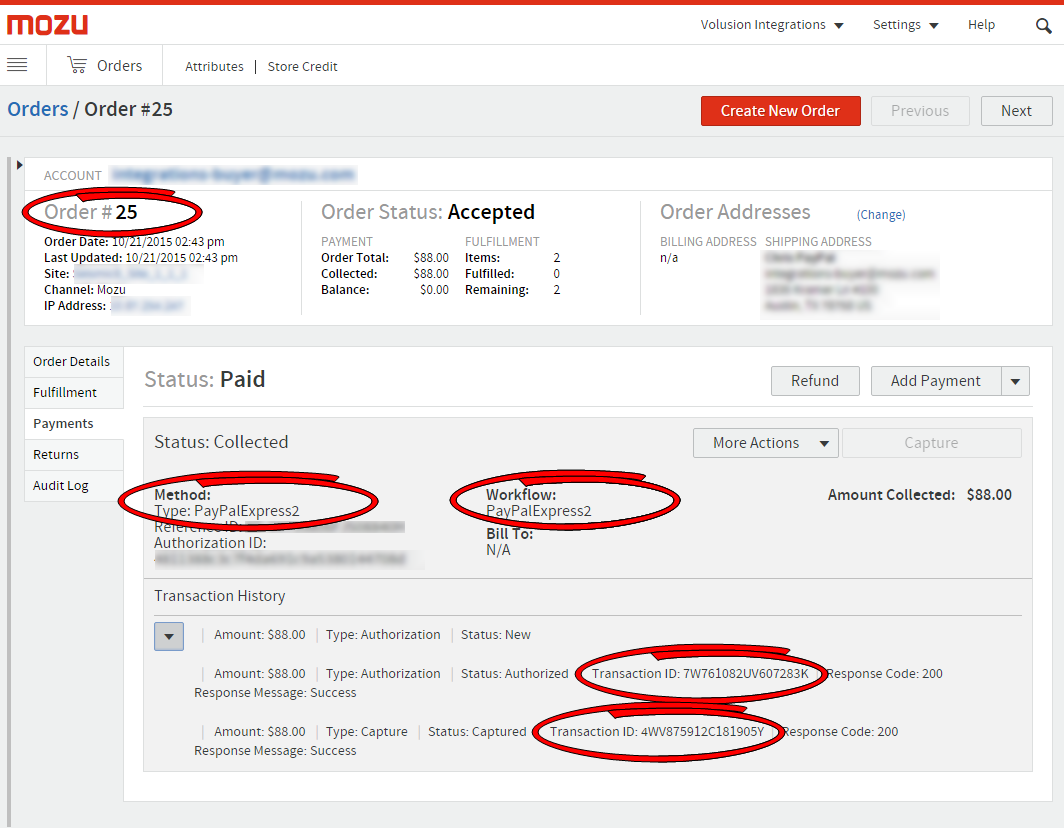
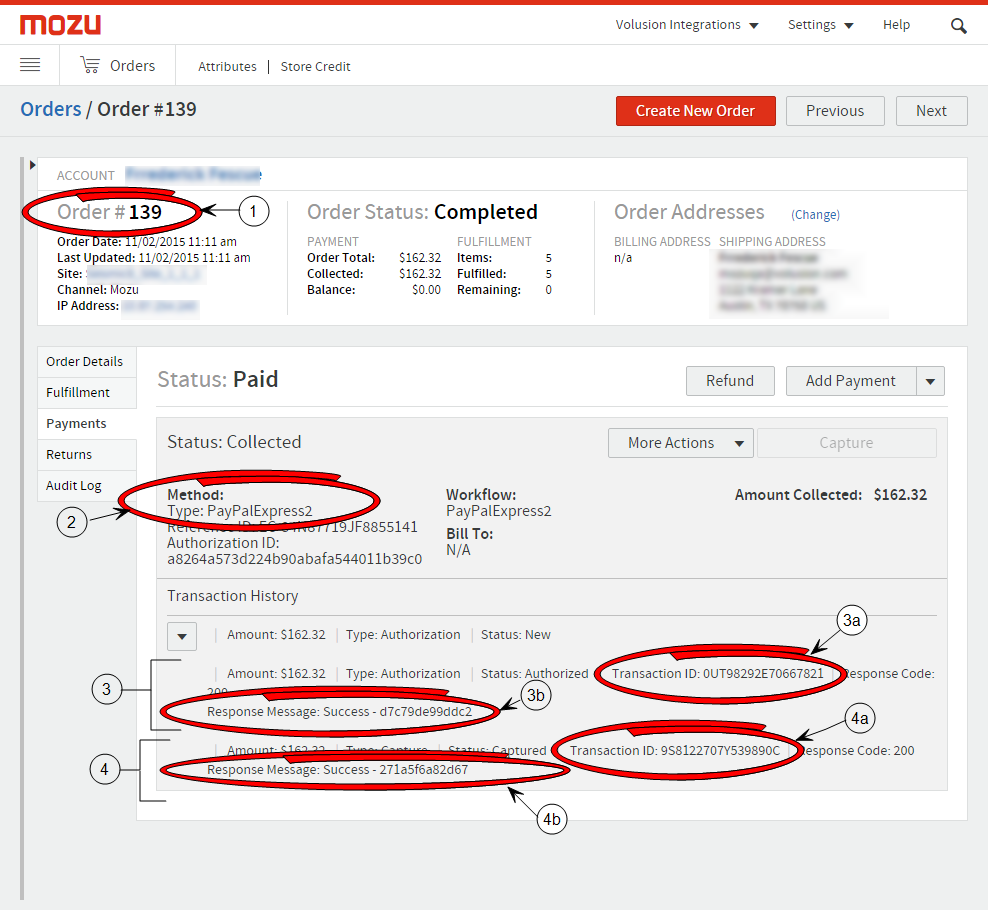
Doc Updates

diff --git a/Preview/PayPalExpress/Mozu-PayPalExpress-App.htm b/Preview/PayPalExpress/Mozu-PayPalExpress-App.htm
@@ -97,9 +97,11 @@
           <div class="side-heading">Table of Contents</div>
           <ul class="nav nav-stacked" >
             <li><a href="#intro">Welcome to PayPal Express and Mozu</a></li>
+            <li><a href="#overview">Setup Overview</a></li>
             <li><a href="#install">Install the App</a></li>
             <li><a href="#theme">Update Your Theme</a></li>             
             <li><a href="#configapp">Configure the App</a></li>
+            <li><a href="#enable">Enable the App</a>
             <li><a href="#useapp">Use the App</a>
               <ul class="nav nav-stacked">
                 <li><a href="#cart">Pay from Cart</a></li>
@@ -123,14 +125,22 @@
                             <ul>
                             	<li>Enables PayPal Express Checkout on both shopping cart and checkout pages. Customers with a PayPal account can check out directly from the cart.</li>
                             	<li>Securely connects Mozu to your existing PayPal merchant account through your PayPal Merchant ID and API Signature.</li>
-                            	<li>Retrieves customer shipping information directly from PayPal.</li>
-                            	<li>Exports shipping information to PayPal if the customer enters a new shipping address in Mozu.</li>
-                            	<li>Imports all necessary order information back into Mozu for payment capture and fulfillment.</li>
-                            	<li>Supports split payments. For example, a customer can apply Mozu store credit for part of an order and use PayPal for the remainder.</li>
+                            	<li>Communicates necessary order and shipping information between both systems.</li>
+                            	<li>Allows for separate authorization and capture. Authorize payments on customer order and capture later through Mozu.</li>
+                            	<li>Imports all necessary order information back into Mozu for payment capture, fulfillment, and order history.</li>
                             	<li>Can be enabled alongside any other payment providers or gateways, including Pay with Amazon and Visa Checkout.</li>
                             </ul>
 				</section>
-
+			<section id="overview">
+				<h2>Setup Overview</h2>
+				<p>The following steps are required before you can use PayPal Express Checkout on your site(s):</p>
+				<ol>
+					<li><a href="#install">Install</a> the PayPal Express Application on your tenant.</li>
+					<li><a href="#theme">Update</a> your Mozu theme.</li>
+					<li><a href="#configapp">Configure</a> PayPal Express on your <strong>Payment &amp; Settings</strong> page.</li>
+					<li><a href="#enable">Enable</a> the app.</li>
+				</ol>
+			</section>
 		<ul class="nav nav-tabs">
                 	<li class="active"><a data-toggle="tab" href="#config"><strong>Configuration Guide</strong></a></li>
                 	<li class="inactive"><a data-toggle="tab" href="#tech"><strong>Technical Specs &amp; Tests</strong></a></li>
@@ -144,9 +154,9 @@
 				<section id="install">
 					<h2>Install the PayPal Express Integration for Mozu on Your Tenant</h2>
 
-					<p>Mozu offers two options for acquiring the PayPal Express Application:</p>
+					<p>Mozu offers two options for adding PayPal Express Checkout functionality to your tenant:</p>
 					<ol>
-						<li>Install the PayPal Express Certified Mozu Application. A Mozu sales or professional services representative will install the application on your tenant.</li>
+						<li>(Preferred) Contact your Mozu sales or professional services representative to install the PayPal Express Certified Mozu Application on your tenant.</li>
 						<li>Build the application from the Mozu-provided code on <a href="https://github.com/Mozu/PayPal-Express" target="_blank">GitHub</a> and install it to Mozu Dev Center. This option requires that you have Arc.js enabled on your tenant. Contact your sales or professional services representative for more information about enabling Arc.js.</li>
 					</ol>
 				</section>
@@ -157,7 +167,11 @@
 						<p>Installing and configuring the PayPal Express app enables PayPal Express functionality in Mozu Admin. However, you still must enable PayPal functionality on your storefront so that customers can use it. To do this, merge the PayPal Express theme changes to enable the PayPal workflow:</p>
 
 						<ol>
-							<li>Navigate to the <a href="https://github.com/Mozu/PayPalExpress-Theme" target="_blank">PayPalExpress-Theme</a> repository on GitHub. This repo contains the full Mozu Core 8 theme with necessary additions and modifications for PayPal Express.</li>
+							<li>On GitHub, find the theme template that best fits your use-case:
+								<ul>
+									<li><strong>(Core 8)</strong> The <a href="https://github.com/Mozu/PayPalExpress-Theme" target="_blank">PayPalExpress-Theme</a> repository contains the full Mozu Core 8 theme with only the necessary additions and modifications for PayPal Express. <strong>(Core 7 or 6)</strong> Branches of this template are also available for Mozu <a href="https://github.com/Mozu/PayPalExpress-Theme/tree/core7" target="_blank">Core 7</a> and <a href="https://github.com/Mozu/PayPalExpress-Theme/tree/core6" target="_blank">Core 6</a>.</li>
+									<li><strong>(Core 8)</strong> The <a href="https://github.com/Mozu/Kitchensink-Theme" target="_blank">Kitchensink-Theme</a> repository contains the full Mozu Core 8 theme with the necessary additions for <em>all</em> supported third-party payments: PayPal Express, Pay with Amazon, and Visa Checkout.</li>
+								</ul>
 							<li>Review and apply the changes made in our sample implementation to your own theme.<span class="panel-tip"><strong>Tip:</strong> To see the differences between the sample implementation and your own theme, open the command line and run the <code>git diff</code> command, using the paths for the themes to be diffed.</span></li>
 						</ol>
 
@@ -201,12 +215,20 @@
 							<li>Click <strong>Save</strong> to save your PayPal Express settings.</li>
 						</ol>                        				
 				</section>
-
+				<section id="enable">
+					<h2>Enable the App</h2>
+					<p>After configuration, enable the PayPal Express Application in Mozu to apply its functionality to your tenant:</p>
+					<ol>
+						<li>On the Mozu Admin top bar, select <strong>Settings</strong> > <strong>Applications</strong>.</li>
+						<li>Select the PayPal Express Application.</li>
+						<li>Click <strong>Enable App</strong> on the app page.</li>
+					</ol>
+				</section>
 				<section id="useapp">
 					<h2>Use the App</h2>
 					<p>After you have installed the app and merged the theme changes, Checkout with PayPal buttons appear on the cart and checkout pages of your Mozu site.</p>
 					<h3 id="cart">Pay with Paypal from the Cart Page</h3>
-					<p>With PayPal Express enabled, your customers see a PayPal button from the Cart page of your site:</p>
+					<p>With PayPal Express enabled, your customers see a PayPal button from the Cart page of your site. Complete the following steps to test the user experience:</p>
 						<figure>
 						<img src="ppe-cart.png" class="img-mozu-center" alt="PayPal Express button on the Cart page">
 						<figcaption>Sample Cart page as it appears to a customer.</figcaption>
@@ -223,7 +245,7 @@
 						 </ol>
 						
 					<h3 id="checkout">Pay with PayPal from the Checkout Page</h3>
-					<p>A customer who chooses <strong>Proceed To Checkout</strong> from the Cart page can still check out with PayPal:</p>
+					<p>A customer who chooses <strong>Proceed To Checkout</strong> from the Cart page can still check out with PayPal. Complete the following steps to test the user experience:</p>
 					<ol>
 						<li>On the Checkout page, enter your <strong>Shipping Information</strong> and select your <strong>Shipping Method</strong>.</li>
 						<li>(Optional) Apply any coupons, gift cards, or store credits.</li>
@@ -243,19 +265,45 @@
 						<div class="panel-heading"><strong>Note:</strong> Regardless of when you capture payment, Mozu strongly recommends you always capture payment from Mozu. If you capture payment from your PayPal merchant account, you must then handle any refunds or returns from PayPal, which can throw off your Mozu order history.</div>
 					</div>
 					<p>The order appears in the <strong>Orders</strong> module in Mozu admin. Note the following details from the <strong>Payments</strong> tab:</p>
-					<ul>
-						<li>The Order number matches the <strong>Invoice ID</strong> in PayPal.</li>
-						<li>Payment <strong>Method</strong> and <strong>Workflow</strong> indicate that the order was processed through PayPal Express.</li>
-						<li>The <strong>Transaction History</strong> shows both PayPal <strong>Transaction ID</strong> values - one for the authorization and one for the capture.</li>
-					</ul>
 					<figure>
-						<img src="ppe-order.png" class="img-mozu-center" alt="Figure 1: Sample PayPal order as it appears in Mozu">
-						<figcaption>Figure 1: A sample PayPal Express order in Mozu.</figcaption>
+						<img src="ppe-order.png" class="img-mozu-center" style="max-width:90%" alt="Figure 1: Sample PayPal order as it appears in Mozu"><figcaption>Figure 1: A sample PayPal Express order in Mozu. 
+						</figcaption>
+						
+							<table class="table table-bordered" style="font-size:90%; max-width:80%; margin-left:auto;
+	margin-right:auto;">
+							<thead>
+								<th>Caption</th>
+								<th>Description</th>
+							</thead>
+							<tr>
+								<td><strong>1</strong></td>
+								<td>The Order Number in Mozu matches the Invoice ID in PayPal.</td>
+							</tr>
+							<tr>
+								<td><strong>2</strong></td>
+								<td>The payment Method indicates a payment type of PayPal Express.</td>
+							</tr>
+							<tr>
+								<td><strong>3</strong></td>
+								<td>The Transaction History entry for the payment authorization:
+									<ul>
+										<li><strong>3a</strong> - The Transaction ID for the authorization. Transaction IDs always match between Mozu and PayPal.</li>
+										<li><strong>3b</strong> - The Response Message for the authorization. This includes the PayPal CorrelationID for the transaction. If you need to contact PayPal Merchant Technical Aupport about a specific transaction, you can provide this ID to find the transaction.</li>
+									</ul></td>
+							</tr>
+							<tr>
+								<td><strong>4</strong></td>
+								<td>The Transaction History entry for the payment authorization.<ul>
+										<li><strong>4a</strong> - The Transaction ID for the payment capture.</li>
+										<li><strong>4b</strong> - The Response Message and PayPal CorrelationID for the payment capture transaction.</li>
+									</ul></td>
+							</tr>
+						</table>
 					</figure>
 
 					<figure>
 						<img src="ppe-paypal-order.png" class="img-mozu-center" alt="Figure 2: Same order as it appears in PayPal">
-						<figcaption>Figure 2: The same order in PayPal's Transaction Details page.</figcaption>
+						<figcaption>Figure 2: The Transaction Details page for the payment authorization from the same order in PayPal.</figcaption>
 					</figure>
 
 				</section>
@@ -288,6 +336,7 @@
 				
 
 				<h2>Negative Test the App</h2>
+				<p>You can use the flexibility of Arc.js and the error codes that PayPal exposes through their API to negative test your application and ensure it throws errors as expected.</p>
 				<h3>Enable Negative Testing on Your PayPal Sandbox</h3>
 					
 				<ol>
@@ -309,25 +358,28 @@
 					<li>Add the following code to the <code>configurations</code> array:</li>
 				</ol>
 
-				<pre class="prettyprint" xml:space="preserve">
-				"configurations": [{
-				    "configuration" : {
-				                        "paypal" : {
-				                            "setExpressCheckout" : {"maxAmount" : "100.01"},
-				                            "getExpressCheckoutDetails" : {"token" : "10004"},
-				                            "authorization" : {"amount" : "100.01"},
-				                            "capture" : {"amount" : "100.01"},
-				                            "void" : {"authorizationId": "10623"},
-				                            "refund" : {"amount" : "100.01"}
-				                        }    
-				       }    
-				}]
+<pre class="prettyprint" xml:space="preserve">
+	"configurations": [{
+	    "configuration" : {
+	            "paypal" : {
+		               "setExpressCheckout" : {"maxAmount" : "100.01"},
+		                "getExpressCheckoutDetails" : {"token" : "10004"},
+		                "authorization" : {"amount" : "100.01"},
+		                "capture" : {"amount" : "100.01"},
+		                "void" : {"authorizationId": "10623"},
+		                "refund" : {"amount" : "100.01"}
+	                       	}    
+                           }    
+					}]
 				</pre>
 
 				<h3>Enable Detailed Logging on Arc.js Actions</h3>
+				<p>If you have Arc.js fully enabled on your Mozu developer account, you can view log files of all the code actions that have executed on your tenant.</p>
 				<ol>
 					<li>In Mozu Admin, go to <strong>Settings</strong> > <strong>System Administration</strong> > <strong>Action Management</strong> to display the <a href="http://developer.mozu.com/content/arcjs/JSON.htm" target="_blank">Action Management JSON Editor</a>.</li>
 					<li>Change <code>defaultLogLevel</code> to <code>"info"</code>.</li>
+					<li>In the Dev Center console, go to <strong>Logs</strong> > <strong>Action Logs</strong>.</li>
+					<li>Select your tenant and click <strong>Search</strong> to see the actions.</li>
 				</ol>
 				
 			</section>
